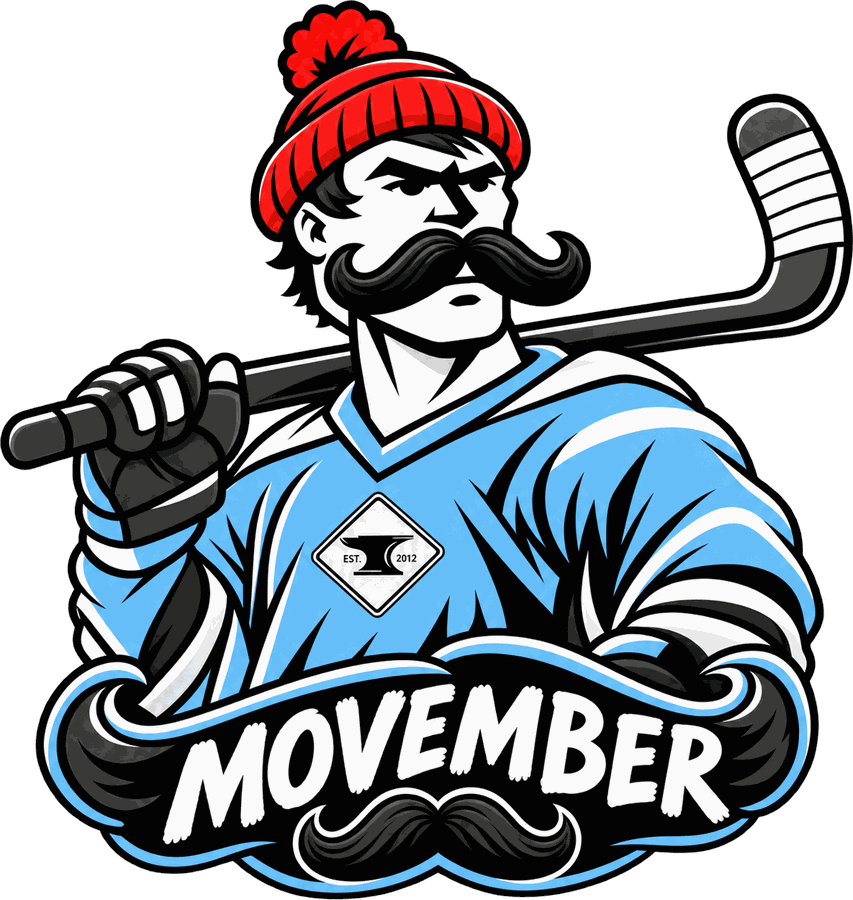
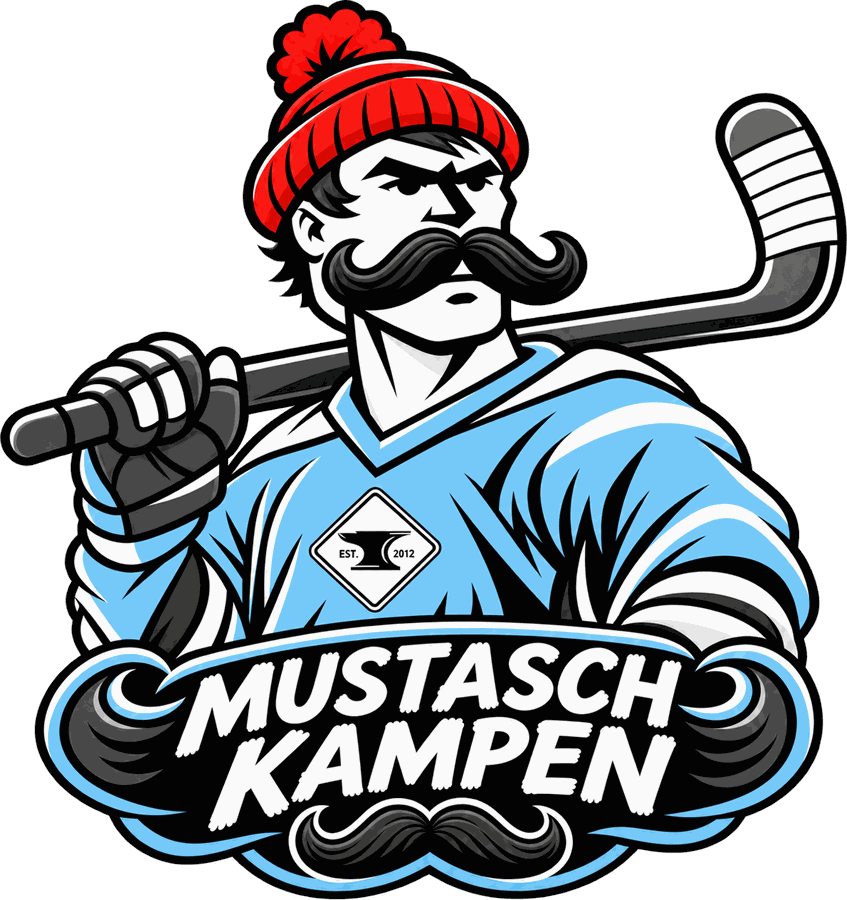
v3.15.1: Mustaschkampen – ny logga
Claude-Session: https://claude.ai/code/session_014aUvUgNkc7qupqSXqFfMok

Changed region(s): [[0.0, 0.0, 1.0, 1.0]]

diff --git a/client/src/pages/media/CampaignPanel.tsx b/client/src/pages/media/CampaignPanel.tsx
@@ -28,8 +28,8 @@ export const CAMPAIGN_MODES: Array<{ id: CampaignMode; name: string; help: strin
 export function themeLogoUrl(t: CampaignTheme | null | undefined): string | null {
   if (!t) return null;
   if (t.hasLogo) return `/api/media/themes/${t.id}/logo?v=${new Date(t.updatedAt).getTime()}`;
-  // ?v=3: ny version av loggan (2026-11-01) – ny adress så att telefonernas cache inte visar en äldre
-  return t.builtin ? `/images/campaigns/${t.builtin}.png?v=4` : null;
+  // ?v=5: Mustaschkampen-loggan (2026-11-01) – ny adress så att telefonernas cache inte visar en äldre
+  return t.builtin ? `/images/campaigns/${t.builtin}.png?v=5` : null;
 }
 export function themePhotoUrl(t: CampaignTheme | null | undefined): string | null {
   return t?.hasPhoto ? `/api/media/themes/${t.id}/photo?v=${new Date(t.updatedAt).getTime()}` : null;

diff --git a/CHANGELOG.md b/CHANGELOG.md
@@ -7,6 +7,10 @@ Versionsnummer: `MAJOR.MINOR.PATCH`
 
 Versionen höjs i `package.json` vid varje deploy till `production`, och commiten taggas `vX.Y.Z` på GitHub. Versionen och byggdatumet visas diskret längst ner i appen och i `/api/health`.
 
+## 3.15.1 – 2026-11-01
+
+- Mustaschkampen: ny logga med texten MUSTASCHKAMPEN (ljusblå tröja, genomskinlig bakgrund).
+
 ## 3.15.0 – 2026-11-01
 
 - **Movember heter nu Mustaschkampen** (Prostatacancerförbundets kampanj i november) och texterna är på svenska: rubrik "Var med i Mustaschkampen", underrubrik "Tillsammans mot prostatacancer", slogan "Mer forskning räddar fler liv" och #mustaschkampen. Sparade inlägg får samma byte där de gamla förvalen står kvar; egna texter ändras inte.
